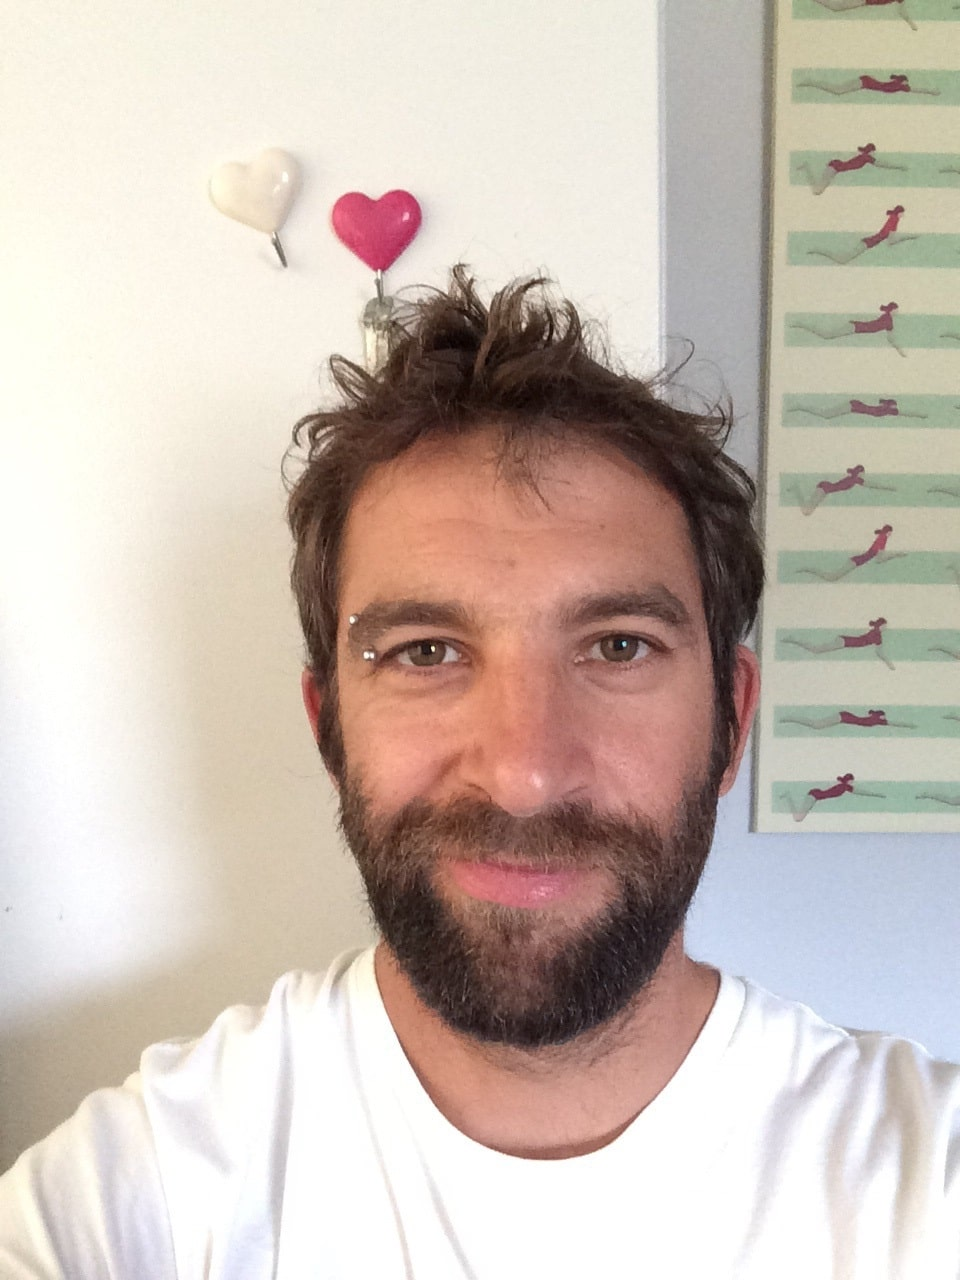
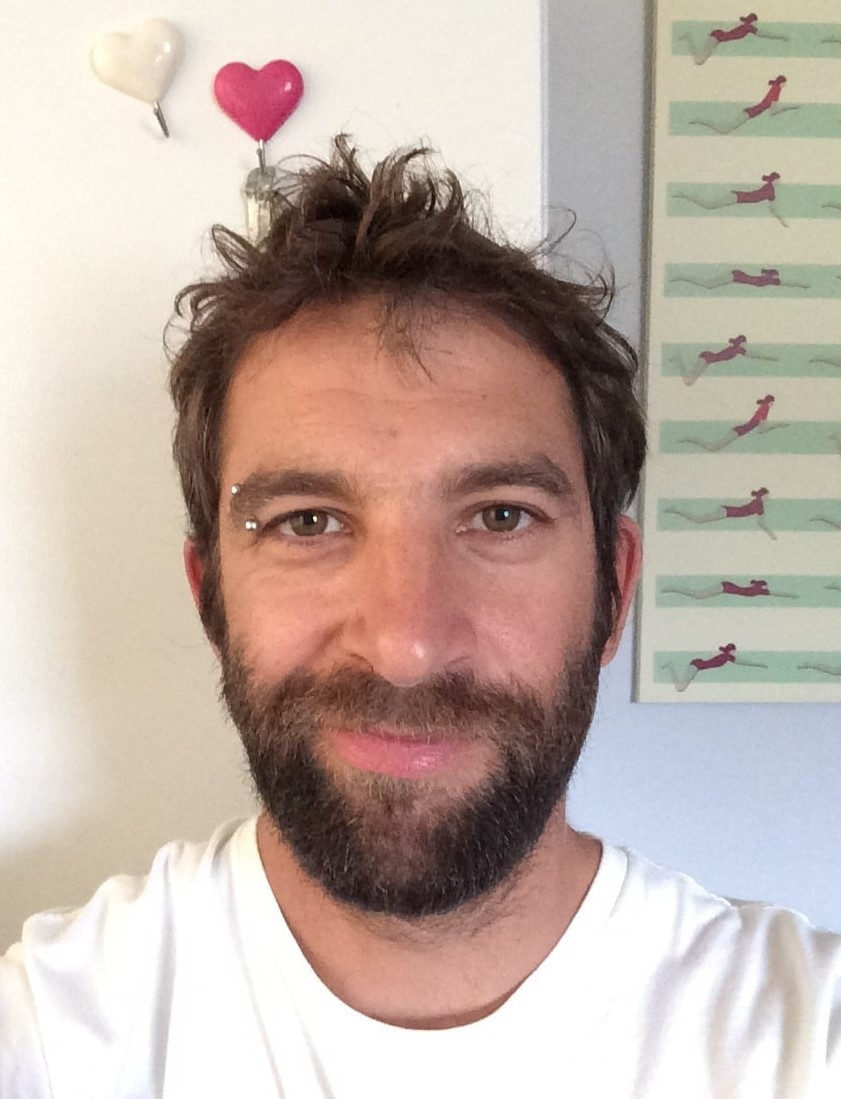
reduce image size

diff --git a/components/resume/me/MyContact.vue b/components/resume/me/MyContact.vue
@@ -1,9 +1,13 @@
 <template>
-  <v-list dense>
-    <v-list-item-group color="primary">
+  <v-list dense flat>
+    <v-list-item-group >
       <v-list-item
         v-for="(item, i) in items"
         :key="i"
+        :ripple="false"
+        link
+        :href="item.value"
+        target="_blank"
       >
         <v-list-item-icon>
           <v-icon>{{item.icon}}</v-icon>

diff --git a/components/resume/me/MyPersonal.vue b/components/resume/me/MyPersonal.vue
@@ -1,9 +1,11 @@
 <template>
-  <v-list dense>
+  <v-list dense flat>
     <v-list-item-group color="primary">
       <v-list-item
         v-for="(item, i) in items"
         :key="i"
+        :ripple="false"
+        :selectable="true"
       >
         <v-list-item-icon>
           <v-icon>{{item.icon}}</v-icon>
